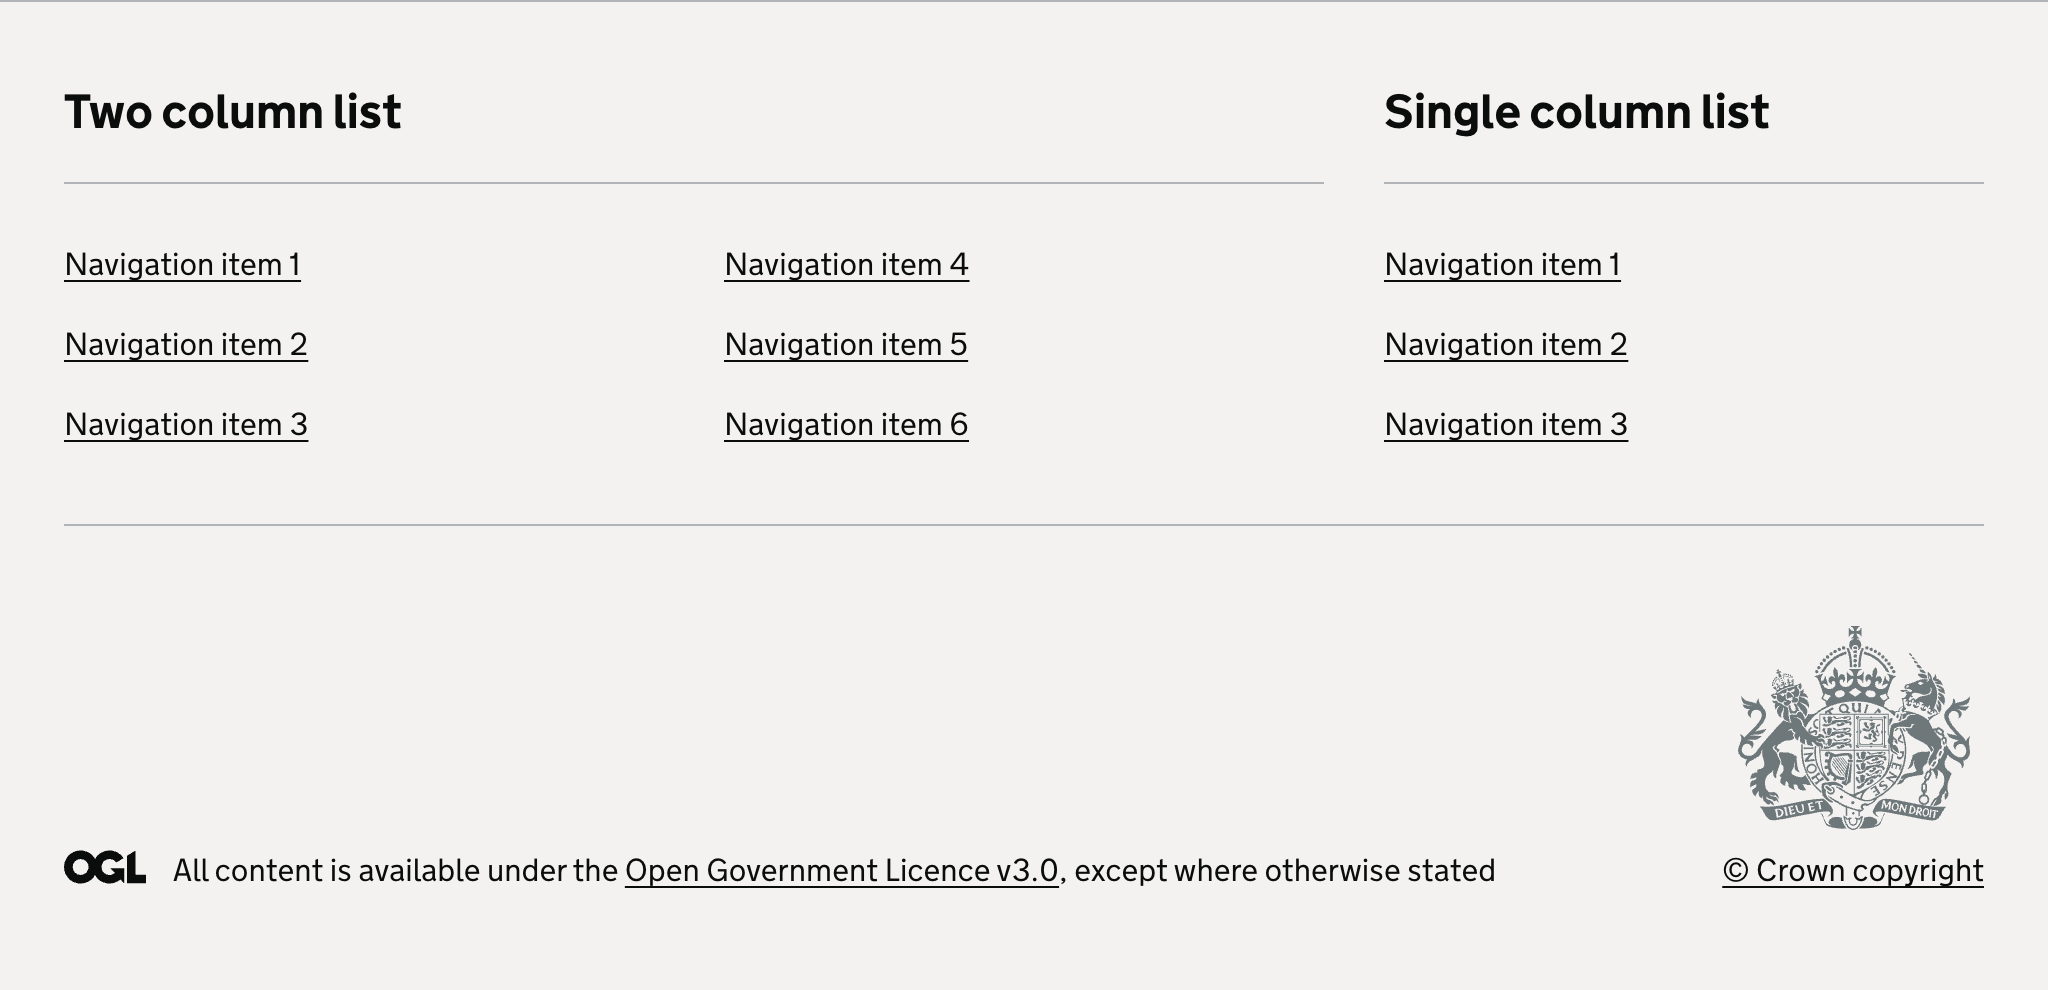
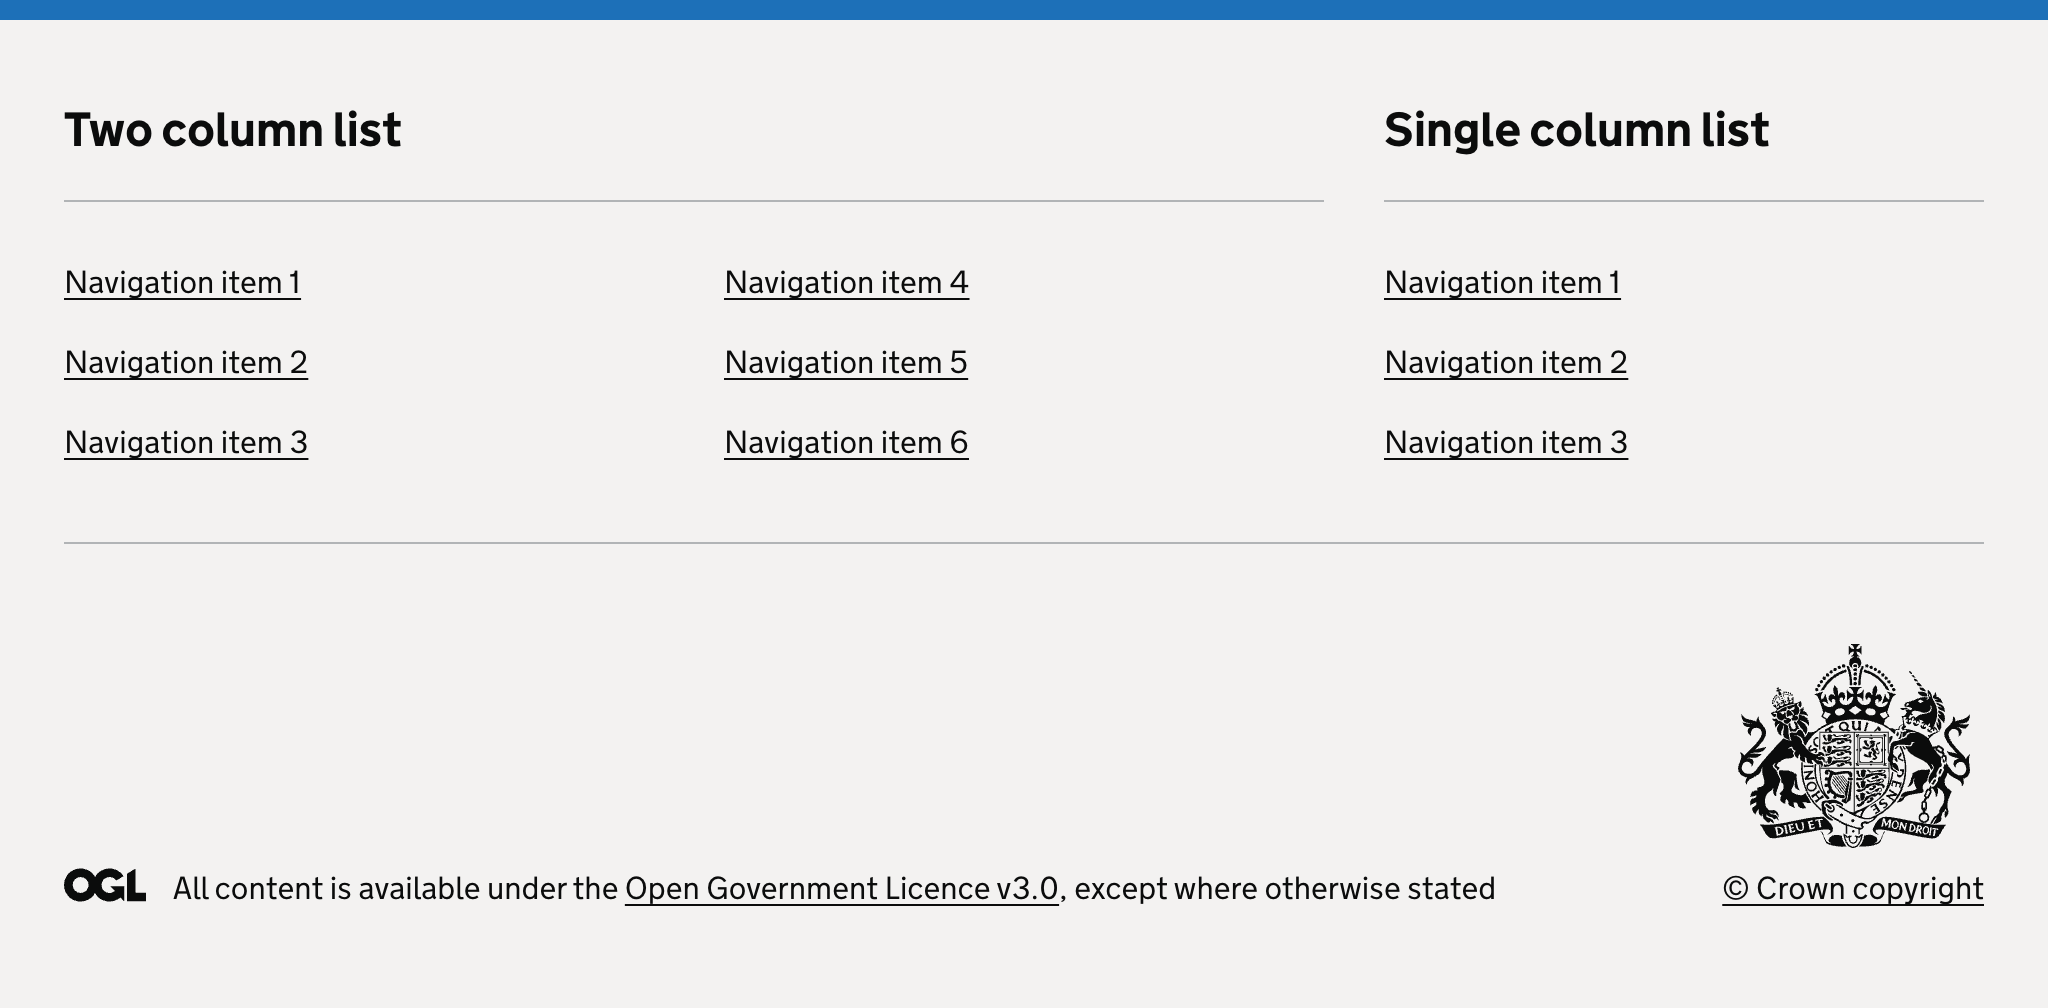
Upgrade to govuk-frontend 5.10.2

diff --git a/tests/GovUk.Frontend.AspNetCore.Tests/TagHelpers/HeaderTagHelperTests.cs b/tests/GovUk.Frontend.AspNetCore.Tests/TagHelpers/HeaderTagHelperTests.cs
@@ -20,9 +20,11 @@ public class HeaderTagHelperTests() : TagHelperTestBase(HeaderTagHelper.TagName)
 
         var output = CreateTagHelperOutput(className: className, attributes: attributes);
 
+        var options = CreateOptions();
+
         var (componentGenerator, getActualOptions) = CreateComponentGenerator<HeaderOptions>(nameof(IComponentGenerator.GenerateHeaderAsync));
 
-        var tagHelper = new HeaderTagHelper(componentGenerator, HtmlEncoder.Default)
+        var tagHelper = new HeaderTagHelper(componentGenerator, options, HtmlEncoder.Default)
         {
             HomePageUrl = homePageUrl,
             ProductName = productName,
@@ -43,5 +45,32 @@ public class HeaderTagHelperTests() : TagHelperTestBase(HeaderTagHelper.TagName)
         AssertContainsAttributes(attributes, actualOptions.Attributes);
         AssertContainsAttributes(containerAttributes, actualOptions.ContainerAttributes);
         Assert.True(actualOptions.UseTudorCrown);
+    }
+
+    [Theory]
+    [InlineData(true)]
+    [InlineData(false)]
+    public async Task ProcessAsync_PassesRebrandFromOptions(bool rebrand)
+    {
+        // Arrange
+        var context = CreateTagHelperContext();
+
+        var output = CreateTagHelperOutput();
+
+        var options = CreateOptions(options => options.Rebrand = rebrand);
+
+        var (componentGenerator, getActualOptions) = CreateComponentGenerator<HeaderOptions>(nameof(IComponentGenerator.GenerateHeaderAsync));
+
+        var tagHelper = new HeaderTagHelper(componentGenerator, options, HtmlEncoder.Default);
+
+        tagHelper.Init(context);
+
+        // Act
+        await tagHelper.ProcessAsync(context, output);
+
+        // Assert
+        var actualOptions = getActualOptions();
+        Assert.NotNull(actualOptions);
+        Assert.Equal(rebrand, actualOptions.Rebrand);
     }
 }

diff --git a/tests/GovUk.Frontend.AspNetCore.Tests/TagHelpers/FooterTagHelperTests.cs b/tests/GovUk.Frontend.AspNetCore.Tests/TagHelpers/FooterTagHelperTests.cs
@@ -36,9 +36,11 @@ public class FooterTagHelperTests() : TagHelperTestBase(FooterTagHelper.TagName)
                 return Task.FromResult(tagHelperContent);
             });
 
+        var options = CreateOptions();
+
         var (componentGenerator, getActualOptions) = CreateComponentGenerator<FooterOptions>(nameof(IComponentGenerator.GenerateFooterAsync));
 
-        var tagHelper = new FooterTagHelper(componentGenerator, HtmlEncoder.Default)
+        var tagHelper = new FooterTagHelper(componentGenerator, options, HtmlEncoder.Default)
         {
             ContainerClass = containerClass
         };
@@ -59,5 +61,32 @@ public class FooterTagHelperTests() : TagHelperTestBase(FooterTagHelper.TagName)
         Assert.Equal(containerClass, actualOptions.ContainerClasses);
         Assert.Equal(className, actualOptions.Classes);
         AssertContainsAttributes(attributes, actualOptions.Attributes);
+    }
+
+    [Theory]
+    [InlineData(true)]
+    [InlineData(false)]
+    public async Task ProcessAsync_PassesRebrandFromOptions(bool rebrand)
+    {
+        // Arrange
+        var context = CreateTagHelperContext();
+
+        var output = CreateTagHelperOutput();
+
+        var options = CreateOptions(options => options.Rebrand = rebrand);
+
+        var (componentGenerator, getActualOptions) = CreateComponentGenerator<FooterOptions>(nameof(IComponentGenerator.GenerateFooterAsync));
+
+        var tagHelper = new FooterTagHelper(componentGenerator, options, HtmlEncoder.Default);
+
+        tagHelper.Init(context);
+
+        // Act
+        await tagHelper.ProcessAsync(context, output);
+
+        // Assert
+        var actualOptions = getActualOptions();
+        Assert.NotNull(actualOptions);
+        Assert.Equal(rebrand, actualOptions.Rebrand);
     }
 }

diff --git a/src/GovUk.Frontend.AspNetCore/TagHelpers/FooterTagHelper.cs b/src/GovUk.Frontend.AspNetCore/TagHelpers/FooterTagHelper.cs
@@ -1,6 +1,7 @@
 using System.Text.Encodings.Web;
 using GovUk.Frontend.AspNetCore.ComponentGeneration;
 using Microsoft.AspNetCore.Razor.TagHelpers;
+using Microsoft.Extensions.Options;
 
 namespace GovUk.Frontend.AspNetCore.TagHelpers;
 
@@ -21,17 +22,23 @@ public class FooterTagHelper : TagHelper
     private const string ContainerClassAttributeName = "container-class";
 
     private readonly IComponentGenerator _componentGenerator;
+    private readonly IOptions<GovUkFrontendOptions> _optionsAccessor;
     private readonly HtmlEncoder _encoder;
 
     /// <summary>
     /// Creates a new <see cref="FooterTagHelper"/>.
     /// </summary>
-    public FooterTagHelper(IComponentGenerator componentGenerator, HtmlEncoder encoder)
+    public FooterTagHelper(
+        IComponentGenerator componentGenerator,
+        IOptions<GovUkFrontendOptions> optionsAccessor,
+        HtmlEncoder encoder)
     {
         ArgumentNullException.ThrowIfNull(componentGenerator);
+        ArgumentNullException.ThrowIfNull(optionsAccessor);
         ArgumentNullException.ThrowIfNull(encoder);
 
         _componentGenerator = componentGenerator;
+        _optionsAccessor = optionsAccessor;
         _encoder = encoder;
     }
 
@@ -65,7 +72,8 @@ public class FooterTagHelper : TagHelper
             Copyright = footerContext.Copyright?.Options,
             ContainerClasses = ContainerClass,
             Classes = classes,
-            Attributes = attributes
+            Attributes = attributes,
+            Rebrand = _optionsAccessor.Value.Rebrand
         });
 
         output.ApplyComponentHtml(component, _encoder);

diff --git a/src/GovUk.Frontend.AspNetCore/TagHelpers/HeaderTagHelper.cs b/src/GovUk.Frontend.AspNetCore/TagHelpers/HeaderTagHelper.cs
@@ -1,6 +1,7 @@
 using System.Text.Encodings.Web;
 using GovUk.Frontend.AspNetCore.ComponentGeneration;
 using Microsoft.AspNetCore.Razor.TagHelpers;
+using Microsoft.Extensions.Options;
 
 namespace GovUk.Frontend.AspNetCore.TagHelpers;
 
@@ -18,17 +19,23 @@ public class HeaderTagHelper : TagHelper
     private const string ProductNameAttributeName = "product-name";
 
     private readonly IComponentGenerator _componentGenerator;
+    private readonly IOptions<GovUkFrontendOptions> _optionsAccessor;
     private readonly HtmlEncoder _encoder;
 
     /// <summary>
     /// Creates a new <see cref="HeaderTagHelper"/>.
     /// </summary>
-    public HeaderTagHelper(IComponentGenerator componentGenerator, HtmlEncoder encoder)
+    public HeaderTagHelper(
+        IComponentGenerator componentGenerator,
+        IOptions<GovUkFrontendOptions> optionsAccessor,
+        HtmlEncoder encoder)
     {
         ArgumentNullException.ThrowIfNull(componentGenerator);
+        ArgumentNullException.ThrowIfNull(optionsAccessor);
         ArgumentNullException.ThrowIfNull(encoder);
 
         _componentGenerator = componentGenerator;
+        _optionsAccessor = optionsAccessor;
         _encoder = encoder;
     }
 
@@ -80,7 +87,8 @@ public class HeaderTagHelper : TagHelper
             ContainerAttributes = containerAttributes,
             Classes = classes,
             Attributes = attributes,
-            UseTudorCrown = true
+            UseTudorCrown = true,
+            Rebrand = _optionsAccessor.Value.Rebrand
         });
 
         output.ApplyComponentHtml(component, _encoder);

diff --git a/tests/GovUk.Frontend.AspNetCore.Tests/ComponentGeneration/DefaultComponentGeneratorTests.cs b/tests/GovUk.Frontend.AspNetCore.Tests/ComponentGeneration/DefaultComponentGeneratorTests.cs
@@ -135,14 +135,16 @@ public class DefaultComponentGeneratorTests
                 }
 
                 return html;
-            });
+            },
+            compareWhitespace: false);
 
     [Theory]
     [ComponentFixtureData("header", typeof(HeaderOptions))]
     public Task Header(ComponentTestCaseData<HeaderOptions> data) =>
         CheckComponentHtmlMatchesExpectedHtml(
             data,
-            (generator, options) => generator.GenerateHeaderAsync(options));
+            (generator, options) => generator.GenerateHeaderAsync(options),
+            compareWhitespace: false);
 
     [Theory]
     [ComponentFixtureData("hint", typeof(HintOptions))]
@@ -226,7 +228,10 @@ public class DefaultComponentGeneratorTests
             amendExpectedHtml: html => html.Replace("–", "&#x2013;"));
 
     [Theory]
-    [ComponentFixtureData("service-navigation", typeof(ServiceNavigationOptions))]
+    [ComponentFixtureData(
+        "service-navigation",
+        typeof(ServiceNavigationOptions),
+        exclude: ["with navigation having empty values", "with navigation having only empty values"])]
     public Task ServiceNavigation(ComponentTestCaseData<ServiceNavigationOptions> data) =>
         CheckComponentHtmlMatchesExpectedHtml(
             data,

diff --git a/tests/GovUk.Frontend.AspNetCore.Tests/PageTemplateHelperTests.cs b/tests/GovUk.Frontend.AspNetCore.Tests/PageTemplateHelperTests.cs
@@ -78,7 +78,7 @@ public class PageTemplateHelperTests
         var result = pageTemplateHelper.GetCspScriptHashes();
 
         // Assert
-        Assert.Equal("'sha256-zOCo0thG2tzE19sia5AxxXH9Fkh4uQ+2OJ80SdH04gg=' 'sha256-GUQ5ad8JK5KmEWmROf3LZd9ge94daqNvd8xy9YS1iDw='", result);
+        Assert.Equal("'sha256-SBBj6o+TxGUiRMcBX1tNVX4Yzp80v3ZT9G0gxDoWSq0=' 'sha256-GUQ5ad8JK5KmEWmROf3LZd9ge94daqNvd8xy9YS1iDw='", result);
     }
 
     [Fact]
@@ -106,7 +106,7 @@ public class PageTemplateHelperTests
         var result = pageTemplateHelper.GetInitScriptCspHash();
 
         // Assert
-        Assert.Equal("'sha256-zOCo0thG2tzE19sia5AxxXH9Fkh4uQ+2OJ80SdH04gg='", result);
+        Assert.Equal("'sha256-SBBj6o+TxGUiRMcBX1tNVX4Yzp80v3ZT9G0gxDoWSq0='", result);
     }
 
     [Fact]

diff --git a/src/GovUk.Frontend.AspNetCore/GovUkFrontendOptions.cs b/src/GovUk.Frontend.AspNetCore/GovUkFrontendOptions.cs
@@ -155,6 +155,11 @@ public class GovUkFrontendOptions
     public bool PrependErrorToTitle { get; set; }
 
     /// <summary>
+    /// Whether to use the updated styles for the 25th June 2025 rebrand.
+    /// </summary>
+    public bool Rebrand { get; set; }
+
+    /// <summary>
     /// Registers a <see cref="DateInputModelConverter"/> for the specified <see cref="Type"/>.
     /// </summary>
     /// <param name="modelType">The <see cref="DateInputModelConverter"/>.</param>

diff --git a/tests/GovUk.Frontend.AspNetCore.IntegrationTests/StartupFilterTests.cs b/tests/GovUk.Frontend.AspNetCore.IntegrationTests/StartupFilterTests.cs
@@ -34,6 +34,9 @@ public class StartupFilterTests
     [InlineData("images/favicon.ico")]
     [InlineData("images/govuk-crest.svg")]
     [InlineData("fonts/bold-affa96571d-v2.woff")]
+    [InlineData("manifest.json")]
+    [InlineData("rebrand/images/favicon.ico")]
+    [InlineData("rebrand/manifest.json")]
     public async Task HostsStaticAssets(string fileName)
     {
         // Arrange

diff --git a/src/GovUk.Frontend.AspNetCore/ComponentGeneration/HeaderOptions.cs b/src/GovUk.Frontend.AspNetCore/ComponentGeneration/HeaderOptions.cs
@@ -20,6 +20,7 @@ public record HeaderOptions
     public TemplateString? Classes { get; set; }
     public AttributeCollection? Attributes { get; set; }
     public bool? UseTudorCrown { get; set; }
+    public bool? Rebrand { get; set; }
 
     [NonStandardParameter]
     public AttributeCollection? ContainerAttributes { get; set; }

diff --git a/src/GovUk.Frontend.AspNetCore/ComponentGeneration/FooterOptions.cs b/src/GovUk.Frontend.AspNetCore/ComponentGeneration/FooterOptions.cs
@@ -11,6 +11,7 @@ public record FooterOptions
     public TemplateString? ContainerClasses { get; set; }
     public TemplateString? Classes { get; set; }
     public AttributeCollection? Attributes { get; set; }
+    public bool? Rebrand { get; set; }
 }
 
 public record FooterOptionsMeta

diff --git a/samples/Samples.MvcStarter/Program.cs b/samples/Samples.MvcStarter/Program.cs
@@ -8,6 +8,8 @@ builder.Services.AddControllersWithViews();
 
 builder.Services.AddGovUkFrontend(options =>
 {
+    options.Rebrand = false;
+
     // Un-comment this block if you want to use a CSP nonce instead of hashes
     //options.GetCspNonceForRequest = context =>
     //{

diff --git a/README.md b/README.md
@@ -1,5 +1,5 @@
 
-[![GOV.UK Design System version](https://img.shields.io/badge/GOV.UK%20Design%20System-5.9.0-brightgreen)](https://github.com/alphagov/govuk-frontend/releases/tag/v5.9.0)
+[![GOV.UK Design System version](https://img.shields.io/badge/GOV.UK%20Design%20System-5.10.2-brightgreen)](https://github.com/alphagov/govuk-frontend/releases/tag/v5.10.2)
 [![CI](https://github.com/x-govuk/govuk-frontend-aspnetcore/workflows/ci/badge.svg)](https://github.com/x-govuk/govuk-frontend-aspnetcore/actions/workflows/ci.yml)
 [![NuGet Downloads](https://img.shields.io/nuget/dt/GovUk.Frontend.AspNetCore)](https://www.nuget.org/packages/GovUk.Frontend.AspNetCore)
 
@@ -171,6 +171,22 @@ services.AddGovUkFrontend(options =>
 ```
 
 See the `Samples.MvcStarter` project for an example of this working.
+
+
+## GOV.UK rebrand
+
+The 25 June 2025 rebrand can be enabled by setting `Rebrand` to `true` on `GovUkOptions`:
+```cs
+services.AddGovUkFrontend(options => options.Rebrand = true);
+```
+
+If you're using [GovUkPageTemplate](#using-the-_GovUkPageTemplate-razor-view),
+the [GOV.UK header](docs/components/header.md) and
+the [GOV.UK footer](docs/components/footer.md) tag helpers
+you don't need to do anything more.
+
+If not, reference (the GOV.UK Frontend release notes)[https://github.com/alphagov/govuk-frontend/releases/tag/v5.10.0]
+to see what needs to be changed.
 
 
 ## GOV.UK Frontend assets
